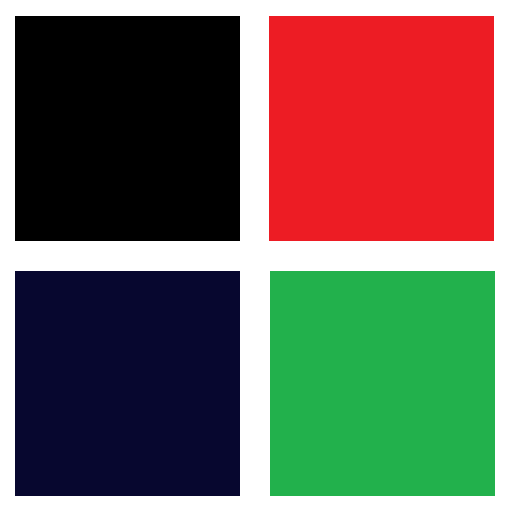
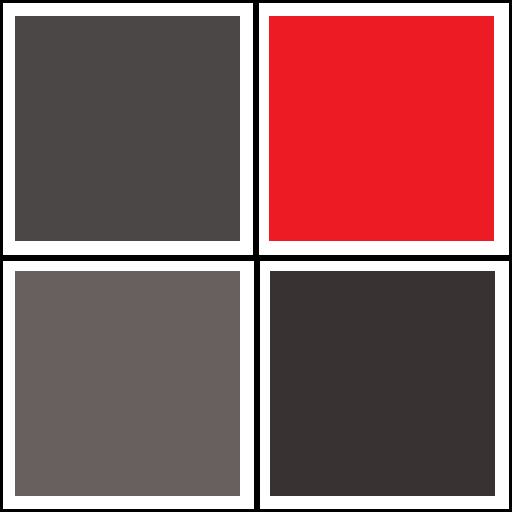
-shader test

diff --git a/branches/ogi/client/main.py b/branches/ogi/client/main.py
@@ -16,6 +16,7 @@ from panda3d.core import ShadeModelAttrib, DirectionalLight, AmbientLight#@Unres
 from panda3d.core import CollisionTraverser, CollisionRay, CollisionHandlerQueue, CollisionNode#@UnresolvedImport
 from panda3d.core import ConfigVariableString, ConfigVariableInt#@UnresolvedImport
 from panda3d.core import CullBinManager, CullBinEnums, CardMaker, ColorBlendAttrib
+from panda3d.core import PandaNode
 from direct.interval.IntervalGlobal import Sequence, ActorInterval, Parallel, Func, Interval, Wait#@UnresolvedImport
 from direct.showbase.DirectObject import DirectObject
 from direct.fsm import FSM
@@ -102,7 +103,7 @@ class AppFSM(FSM.FSM):
         del self.parent.login
 
     def enterClient(self, type):
-        base.win.setClearColor(VBase4(0.5, 0.5, 0.5, 0))
+        #base.win.setClearColor(VBase4(0.5, 0.5, 0.5, 0))
         self.parent.client = Client(self.parent, self.parent.player, type=type)
         
     def exitClient(self):
@@ -221,12 +222,14 @@ class SceneGraph():
         # Create main update task
         taskMgr.add(self.animTask, "anim_task")  
         
-        meter = SceneGraphAnalyzerMeter('meter', render.node())
-        meter.setupWindow(base.win)      
+        #meter = SceneGraphAnalyzerMeter('meter', render.node())
+        #meter.setupWindow(base.win)      
         
         bins = CullBinManager.getGlobalPtr()
         bins.addBin('highlight', CullBinEnums.BTStateSorted, 25)
         
+        render.setShaderInput('glow', Vec4(0,0,0,0))
+        self.createGlow()
         #print "base.win.getGsg().getMaxTextureStages() = "+str(base.win.getGsg().getMaxTextureStages())
     
     def loadLevel(self, level):
@@ -297,7 +300,63 @@ class SceneGraph():
         self.coll_ray = CollisionRay()
         self.coll_node.addSolid(self.coll_ray)
         self.coll_trav.addCollider(self.coll_nodepath, self.coll_queue)
+
+    def clearGlow(self):
+        render.setShaderInput('glow', Vec4(0,0,0,0))
+   
+    def makeFilterBuffer(self, srcbuffer, name, sort, prog):
+        blurBuffer=base.win.makeTextureBuffer(name, 512, 512)
+        blurBuffer.setSort(sort)
+        blurBuffer.setClearColor(Vec4(1,0,0,1))
+        blurCamera=base.makeCamera2d(blurBuffer)
+        blurScene=NodePath("new Scene")
+        blurCamera.node().setScene(blurScene)
+        shader = loader.loadShader(prog)
+        card = srcbuffer.getTextureCard()
+        card.reparentTo(blurScene)
+        card.setShader(shader)
+        return blurBuffer
     
+    def createGlow(self):
+        glowShader=loader.loadShader("glowShader.sha")
+        # create the glow buffer. This buffer renders like a normal scene,
+        # except that only the glowing materials should show up nonblack.
+        glowBuffer=base.win.makeTextureBuffer("Glow scene", 512, 512)
+        glowBuffer.setSort(-3)
+        glowBuffer.setClearColor(Vec4(0,0,0,1))
+
+        # We have to attach a camera to the glow buffer. The glow camera
+        # must have the same frustum as the main camera. As long as the aspect
+        # ratios match, the rest will take care of itself.
+        glowCamera=base.makeCamera(glowBuffer, lens=base.cam.node().getLens())
+
+        # Tell the glow camera to use the glow shader
+        tempnode = NodePath(PandaNode("temp node"))
+        tempnode.setShader(glowShader)
+        glowCamera.node().setInitialState(tempnode.getState())
+        
+        # set up the pipeline: from glow scene to blur x to blur y to main window.
+        
+        blurXBuffer=self.makeFilterBuffer(glowBuffer,  "Blur X", -2, "XBlurShader.sha")
+        blurYBuffer=self.makeFilterBuffer(blurXBuffer, "Blur Y", -1, "YBlurShader.sha")
+        self.finalcard = blurYBuffer.getTextureCard()
+        self.finalcard.reparentTo(render2d)
+        self.finalcard.setAttrib(ColorBlendAttrib.make(ColorBlendAttrib.MAdd))
+        
+        # Panda contains a built-in viewer that lets you view the results of
+        # your render-to-texture operations.  This code configures the viewer.
+
+        base.accept("v", base.bufferViewer.toggleEnable)
+        base.accept("V", base.bufferViewer.toggleEnable)
+        base.bufferViewer.setPosition("llcorner")
+        base.bufferViewer.setLayout("hline")
+        base.bufferViewer.setCardSize(0.652,0)
+
+        # event handling
+        #base.accept("space", self.toggleGlow)
+
+        self.glowOn=True;        
+        
     def loadUnits(self):
         if self.comp_inited['units']:
             return
@@ -401,19 +460,16 @@ class SceneGraph():
                 text = TextNode('node name')
                 text.setText( "%s" % move_dict[tile])
                 text.setAlign(TextNode.ACenter)
-                if move_dict[tile] >= 2:
-                    text.setCardColor(0.2, 0.7, 0.2, 0.3)
-                else:
-                    text.setCardColor(0.7, 0.2, 0.2, 0.3)
-                text.setCardAsMargin(0, 0, 0, 0)
-                text.setCardDecal(True)
                 textNodePath = self.movetext_np.attachNewNode(text)
                 textNodePath.setPos(render, tile[0]+0.45, tile[1]+0.45, 0.33)
                 textNodePath.setColor(0, 0, 0)
                 textNodePath.setScale(0.4, 0.4, 0.4)
                 textNodePath.setBillboardPointEye()                
             #self.movetext_np.flattenStrong()
-            self.movetext_np.reparentTo(self.node)  
+            self.movetext_np.reparentTo(self.node) 
+            self.clearGlow() 
+            self.level_mesh.highlightTiles(move_dict)
+            self.level_mesh.switchNodes()
 
     def hideUnitAvailMove(self):
         if self.movetext_np:

diff --git a/branches/ogi/client/strain/voxelgen.py b/branches/ogi/client/strain/voxelgen.py
@@ -6,7 +6,7 @@
 
 # panda3D imports
 from panda3d.core import Texture, NodePath, TextureStage
-from panda3d.core import Vec3, Point3
+from panda3d.core import Vec4, Vec3, Point3
 
 # strain related imports
 import strain.utils as utils
@@ -26,26 +26,36 @@ class VoxelGenerator():
     def createLevel(self):
         tex = loader.loadTexture("tiletex.png")
         tex2 = loader.loadTexture("blacktex-glow.png")
-        #tex.setMagfilter(Texture.FTLinearMipmapLinear)
-        #tex.setMinfilter(Texture.FTLinearMipmapLinear)
-        ts = TextureStage('ts')        
-        #ts.setTexcoordName("Tex02")
+        tex.setMagfilter(Texture.FTLinearMipmapLinear)
+        tex.setMinfilter(Texture.FTLinearMipmapLinear)
+        ts = TextureStage('ts')
         ts2 = TextureStage('ts2')
         ts2.setMode(TextureStage.MGlow)
         for x in xrange(0, self.level.maxX):
             for y in xrange(0, self.level.maxY):
                 for i in xrange(0, self.level.getHeight( (x, y) )+1):
-                    if self.level.getHeight( (x, y) ) > 0:
-                        ts.setTexcoordName("Tex02")
-                    else:
-                        ts.setTexcoordName("Tex01")
                     model = loader.loadModel('tile')
+                    if self.level.getHeight( (x, y) ) > 0:
+                        model.setTexOffset(ts, 0.5, 0)
+                    else:
+                        model.setTexOffset(ts, 0, 0)                   
                     model.setPos(x, y, i*utils.GROUND_LEVEL)
                     model.setTexture(ts, tex)   
-                    model.setTexture(ts2, tex2)
+                    model.setTexture(ts2, tex2, 2)
                     model.reparentTo(self.node_original)                 
                     self.tile_list[x][y] = model
         self.switchNodes()
+    
+    def clearHighlight(self):
+        for tile in self.tile_list:
+            for t in tile:
+                t.setShaderInput('glow', Vec4(0,0,0,0))
+    
+    def highlightTiles(self, list):
+        self.clearHighlight()
+        for tile in list:
+            print tile
+            self.tile_list[tile[0]][tile[1]].setShaderInput('glow', Vec4(1,0,0,1))
                     
     def switchNodes(self):
         if self.node_usable != None:

diff --git a/branches/ogi/client/strain/unitmodel.py b/branches/ogi/client/strain/unitmodel.py
@@ -174,7 +174,8 @@ class LegoUnitModel:
         self.model.setH(h)
         self.model.flattenLight() 
         self.node.setPos(pos)
-        self.model.setShaderAuto()
+        self.model.setShaderInput('glow', Vec4(0,0,0,0))
+        #self.model.setShaderAuto()
 
         #self.model.setLightOff()
         self.node.setTag("type", "unit")
